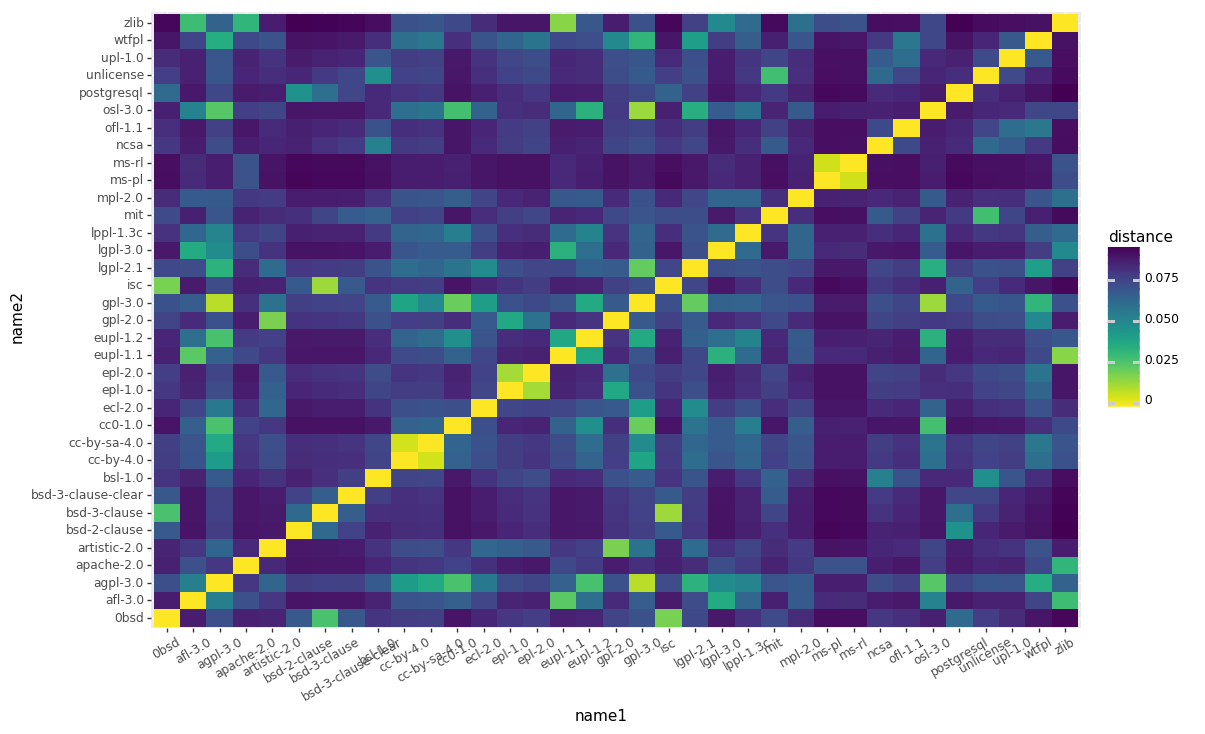
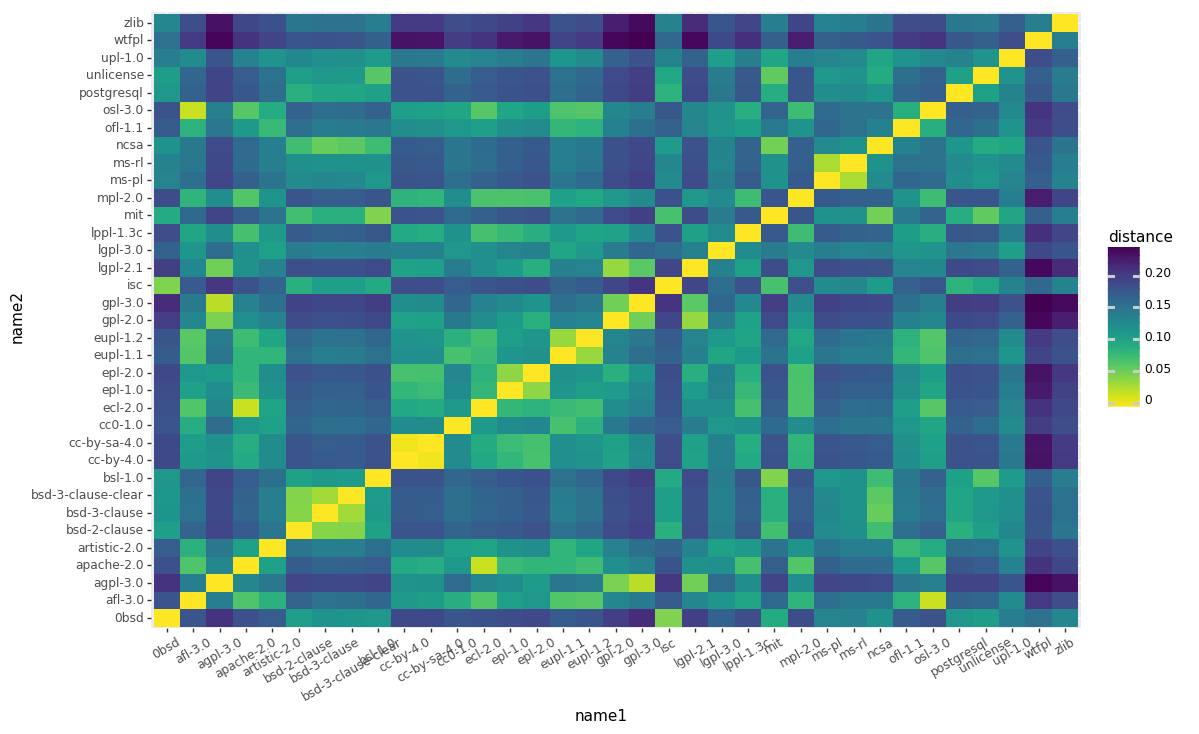
more about entropy and improve code

diff --git a/notes-en/ncd.md b/notes-en/ncd.md
@@ -41,12 +41,20 @@ So, what can we use? In the original paper authors used real compressors like `Z
 
 ## Entropy
 
-[Entropy](https://bit.ly/1dm77MT)
+[Entropy](https://bit.ly/1dm77MT) shows how many information contains this char in the given alphabet. For example, if you're playing in the "guess the word" game and know that this word starts from "e" it's not informative for you because too many words in English start from "e". Otherwise, if you know that word starts from "x" then you should just try a few words to win (I guess, it's "x-ray").
 
-$$S=-\sum \_{i}P\_{i}\log {P_{i}}$$
+So, we can calculate entropy for any letter in alphabet (or element in a sequence):
+
+$$S=-\sum \_{i}P\_{i}\log_{2} {P_{i}}$$
+
+Let's calculate entropy for sequence "test":
+
+$$ S=(-{\frac {2}{4}}\log_{2}{\frac {2}{4}})[t] + (-{\frac {1}{4}}\log_{2}{\frac {1}{4}})[e] + (-{\frac {1}{4}}\log_{2}{\frac {1}{4}})[s] = \frac {2}{4} + \frac {2}{4} + \frac {2}{4} = 1.5 $$
+
 
 ## Use entropy in NCD
 
+[Entropy encoding](https://en.wikipedia.org/wiki/Entropy_encoding) is a kind of compression algorithms that compress data by
 
 ## Let's practice!
 
@@ -116,21 +124,28 @@ We will get name of license as command line argument, compare its text with text
 from itertools import islice
 from pathlib import Path
 from sys import argv
-from textdistance import entropy_ncd
+from textdistance import EntropyNCD
 
 # read files
 licenses = dict()
 for path in Path('choosealicense.com', '_licenses').iterdir():
   licenses[path.stem] = path.read_text()
 
+# show licenses list if no arguments passed
+if len(argv) == 1:
+  print(*sorted(licenses.keys()), sep='\n')
+  exit(1)
+
 # compare all with one
-compare_with = argv[1]
+qval = int(argv[1]) if argv[1] else None
+compare_with = argv[2]
 distances = dict()
 for name, content in licenses.items():
-  distances[name] = entropy_ncd(
+  distances[name] = EntropyNCD(qval=qval)(
     licenses[compare_with],
     content,
   )
+
 
 # show 5 most similar
 sorted_distances = sorted(distances.items(), key=lambda d: d[1])
@@ -138,29 +153,57 @@ for name, distance in islice(sorted_distances, 5):
   print('{:20} {:.4f}'.format(name, distance))
 ```
 
-Ok, let's have a look on some licenses:
+Ok, let's have a look which qval works better:
 
 ```bash
-$ python3 compare.py gpl-3.0
+# calculate entropy for chars
+$ python3 tmp.py 1 gpl-3.0
 gpl-3.0              0.0000
 agpl-3.0             0.0013
 osl-3.0              0.0016
 cc0-1.0              0.0020
 lgpl-2.1             0.0022
 
-$ python3 compare.py mit    
-mit                  0.0000
-unlicense            0.0031
-bsl-1.0              0.0061
-bsd-3-clause-clear   0.0066
-ncsa                 0.0070
+# calculate entropy for bigrams
+$ python3 tmp.py 2 gpl-3.0
+gpl-3.0              0.0000
+agpl-3.0             0.0022
+bsl-1.0              0.0058
+gpl-2.0              0.0061
+unlicense            0.0065
 
-$ python3 tmp.py bsd-2-clause
-bsd-2-clause         0.0000
-postgresql           0.0041
-bsd-3-clause         0.0054
-isc                  0.0070
-0bsd                 0.0073
+# calculate entropy for words (qval=None)
+$ python3 tmp.py "" gpl-3.0
+gpl-3.0              0.0000
+agpl-3.0             0.0060
+gpl-2.0              0.0353
+lgpl-2.1             0.0381
+epl-2.0              0.0677
+```
+
+Calculating entropy by words looks most promising. Let's calculate it for some other licenses:
+
+```bash
+$ python3 tmp.py "" mit    
+mit                  0.0000
+bsl-1.0              0.0294
+ncsa                 0.0350
+unlicense            0.0372
+isc                  0.0473
+
+$ python3 tmp.py "" bsd-3-clause
+bsd-3-clause         0.0000
+bsd-3-clause-clear   0.0117
+bsd-2-clause         0.0193
+ncsa                 0.0367
+mit                  0.0544
+
+python3 tmp.py "" apache-2.0
+apache-2.0           0.0000
+ecl-2.0              0.0043
+osl-3.0              0.0412
+mpl-2.0              0.0429
+afl-3.0              0.0435
 ```
 
 Now, let's make heatmap!
@@ -169,7 +212,7 @@ Now, let's make heatmap!
 distances = []
 for name1, content1 in licenses.items():
   for name2, content2 in licenses.items():
-    distances.append((name1, name2, entropy_ncd(content1, content2)))
+    distances.append((name1, name2, EntropyNCD(qval=None)(content1, content2)))
 
 import plotnine as gg
 import pandas as pd
